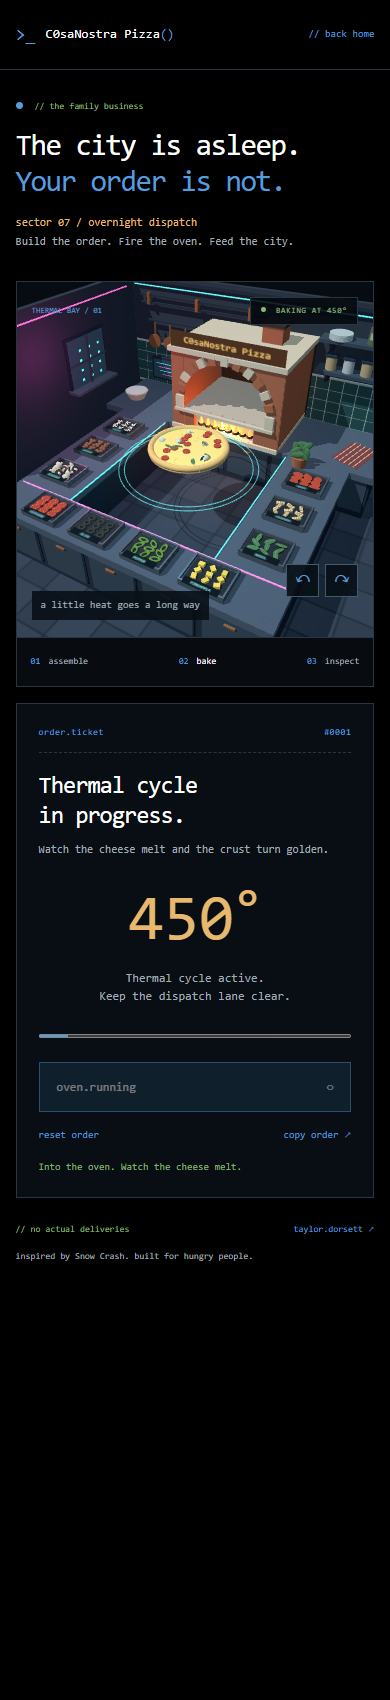
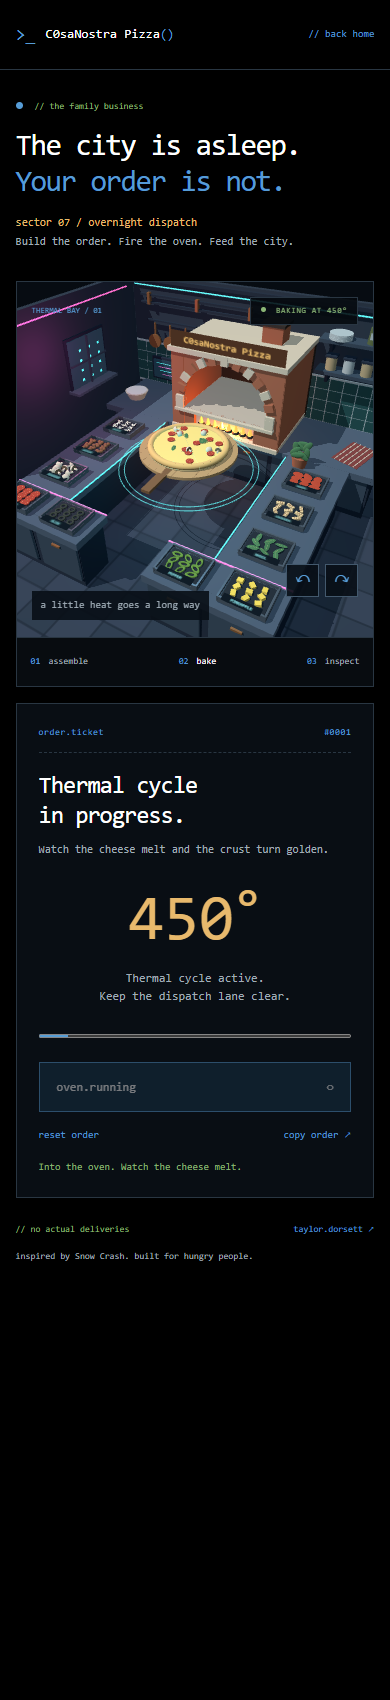
bring back the paddle

Changed region(s): [[0.0308, 0.2494, 0.7385, 0.3741]]

diff --git a/kitchen-room.js b/kitchen-room.js
@@ -56,9 +56,12 @@ export function createKitchenRoom(root) {
     box(2.4, 0.28, 7.5, stone, root, x, -0.4, 0.7);
     box(2.1, 1.85, 7, wood, root, x, -1.45, 0.7);
   }
-  box(10.4, 0.28, 1.5, stone, root, 0, -0.4, 4.1);
-  box(10, 1.85, 1.2, wood, root, 0, -1.45, 4.1);
-  for (const x of [-4, -2, 0, 2, 4]) {
+  // Leave a 2.4 unit entrance between the two front counter sections.
+  for (const x of [-3.2, 3.2]) {
+    box(4, 0.28, 1.5, stone, root, x, -0.4, 4.1);
+    box(3.8, 1.85, 1.2, wood, root, x, -1.45, 4.1);
+  }
+  for (const x of [-4.2, -2.2, 2.2, 4.2]) {
     box(1.7, 1.45, 0.07, oak, root, x, -1.35, 4.75);
     box(0.34, 0.07, 0.08, copper, root, x, -0.82, 4.81);
   }
@@ -129,7 +132,7 @@ export function createKitchenRoom(root) {
   box(13.4, 0.045, 0.06, cyan, root, 0, 4.45, -6.55);
   box(0.06, 0.045, 10, pink, root, -6.7, 4.45, -0.9);
   for (const x of [-2.78, 2.78]) box(0.035, 0.045, 6.9, cyan, root, x, -0.22, 0.7);
-  box(10, 0.045, 0.035, pink, root, 0, -0.22, 3.35);
+  for (const x of [-3.2, 3.2]) box(4, 0.045, 0.035, pink, root, x, -0.22, 3.35);
   for (const y of [3.7, 4.05]) box(7, 0.09, 0.12, wood, root, -2.8, y, -6.45);
   for (const x of [-5.8, -3.2, -0.6]) box(0.14, 0.55, 0.18, copper, root, x, 3.9, -6.4);
   const accent = new THREE.PointLight('#ee4eaa', 22, 12, 2);

diff --git a/kitchen.js b/kitchen.js
@@ -83,6 +83,15 @@ export function createKitchen(scene) {
   const fieldLight = new THREE.PointLight('#31dbe9', 8, 7, 2);
   fieldLight.position.set(0, 0.4, 1);
   root.add(fieldLight);
+  const paddleWood = material('#b88e59');
+  const paddleEdge = material('#79532f');
+  const peel = mesh(new THREE.CylinderGeometry(2.65, 2.65, 0.16, 80), paddleWood, carriage);
+  peel.position.y = -0.1;
+  box(0.48, 0.16, 2.1, paddleEdge, carriage, 0, -0.1, 3.1);
+  for (let i = 0; i < 9; i++) {
+    const x = -2 + i * 0.5;
+    box(0.012, 0.004, 2 * Math.sqrt(2.6 ** 2 - x * x), paddleEdge, carriage, x, -0.016, 0);
+  }
   const pizza = new THREE.Group();
   carriage.add(pizza);
   const slices = [];

diff --git a/oven-motion.js b/oven-motion.js
@@ -1,3 +1,4 @@
+// The clearance envelope includes the wooden paddle beneath the pizza.
 // These dimensions are shared by the oven model and its animation so the pizza
 // clears the opening and rests above the stone instead of passing through fire.
 export const ovenLayout = {
@@ -6,10 +7,10 @@ export const ovenLayout = {
   openingHalfWidth: 1.8,
   deckTop: 0.81,
   flameTop: 0.57,
-  pizzaRadius: 2.22,
-  pizzaBottom: -0.01,
+  pizzaRadius: 2.65,
+  pizzaBottom: -0.18,
   prepHeight: 0.65,
-  bakingHeight: 0.82,
+  bakingHeight: 0.93,
   bakingScale: 0.62
 };
 

diff --git a/ingredient-station.js b/ingredient-station.js
@@ -17,10 +17,10 @@ export function createIngredientStation(root, makeTopping) {
     ['sauce', 4, -1.4],
     ['chicken', 4, 0.45],
     ['basil', 4, 2.3],
-    ['pepperoni', -3, 4.1],
-    ['olive', -1, 4.1],
-    ['pepper', 1, 4.1],
-    ['pineapple', 3, 4.1]
+    ['pepperoni', -4.2, 4.1],
+    ['olive', -2.2, 4.1],
+    ['pepper', 2.2, 4.1],
+    ['pineapple', 4.2, 4.1]
   ];
   for (const [type, x, z] of trays) {
     const tray = new THREE.Group();
